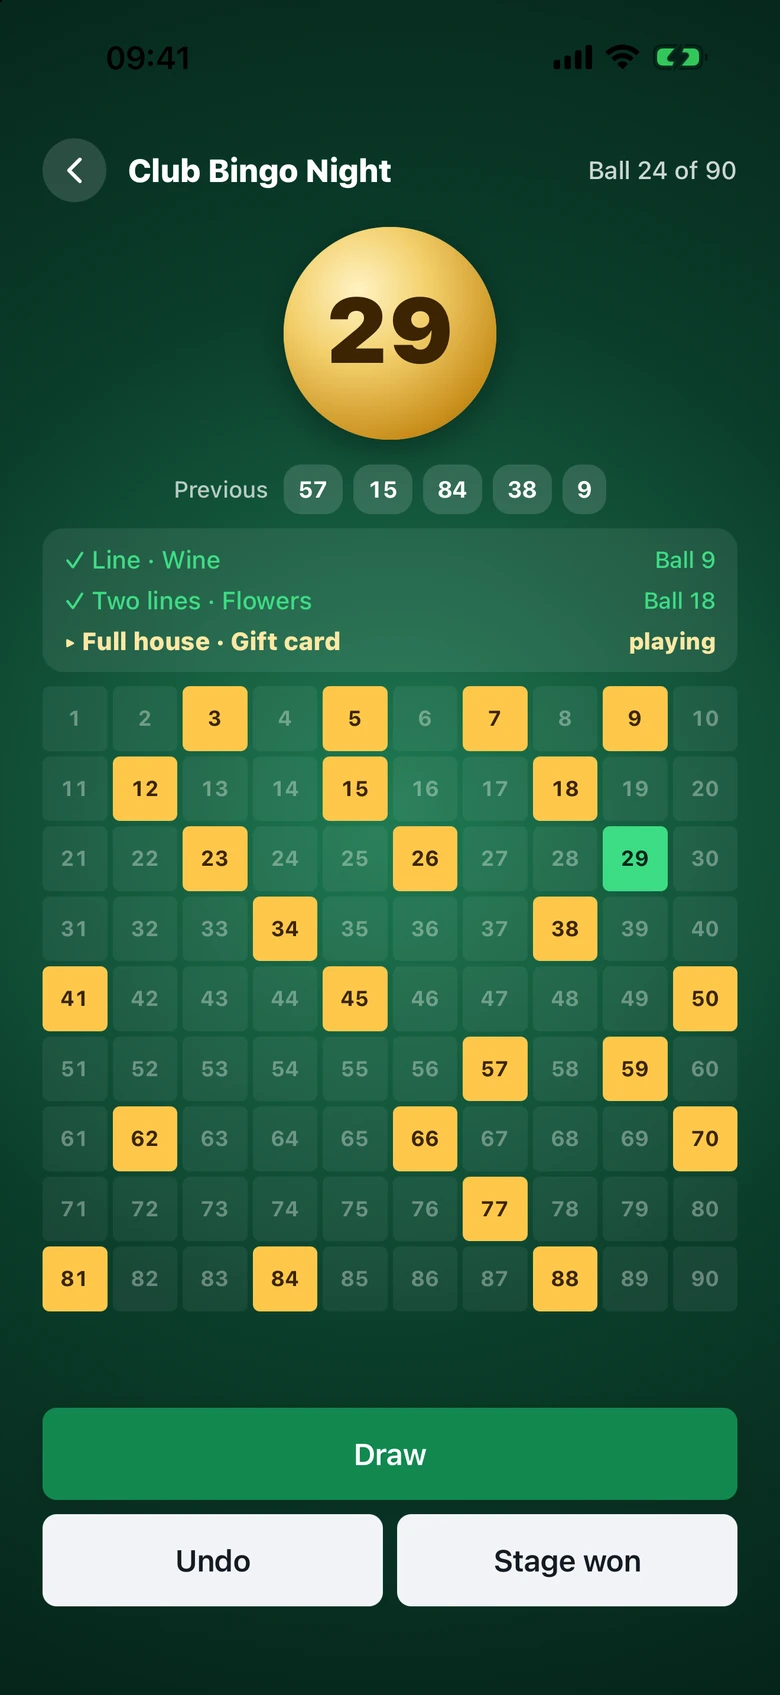
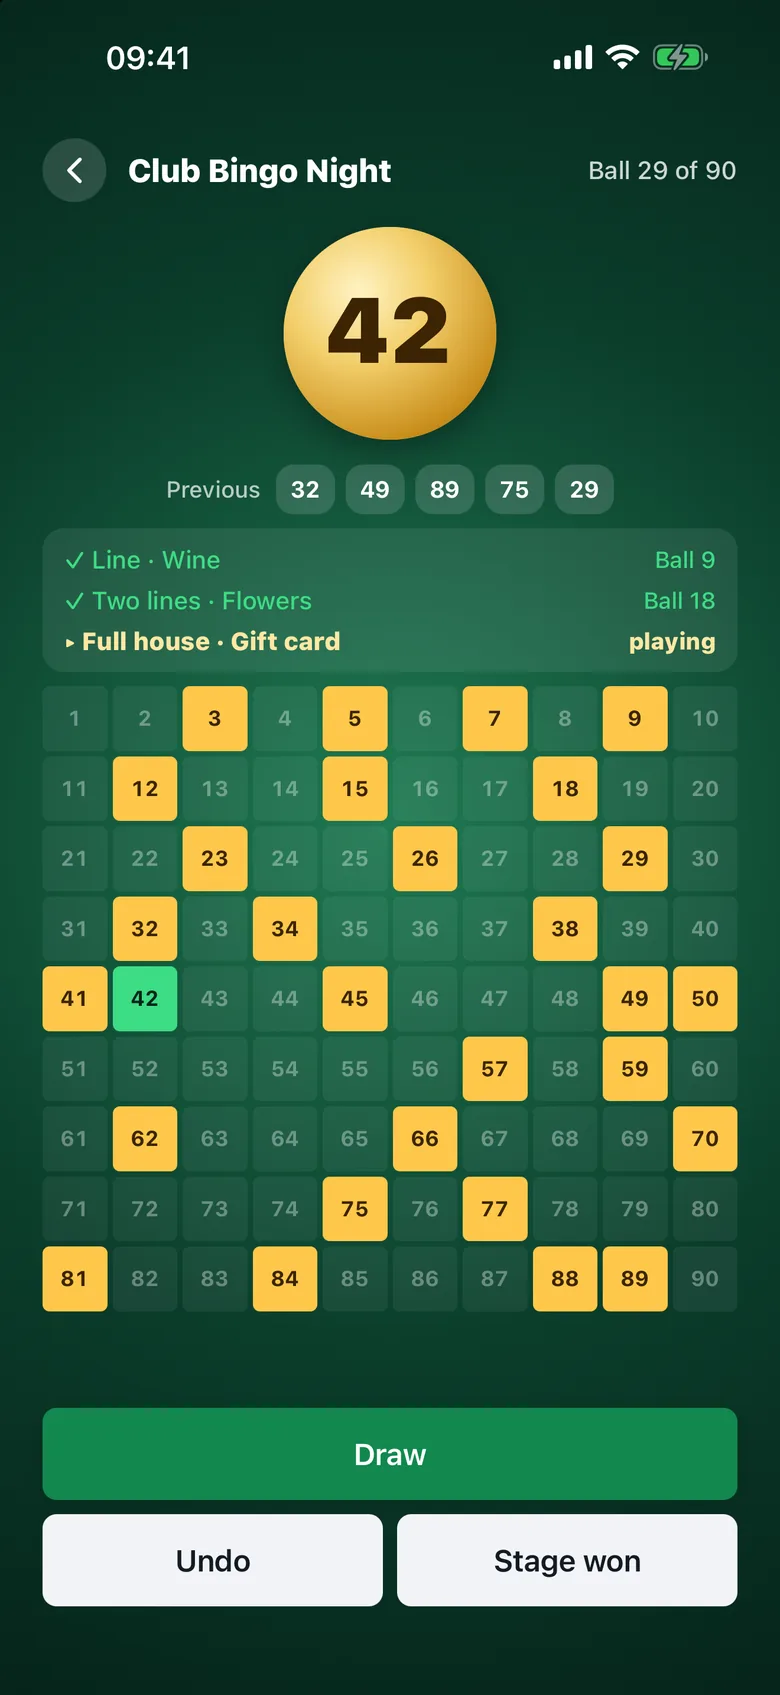
Screenshots from RafflePilot 2.0.3 (winner, new raffle, bingo); senior centers
Light status bar on the dark screens, sentence-case buttons, Colored, and ball counts
30, 75, 80, 90. Alt texts match the new shots.

diff --git a/index.html b/index.html
@@ -45,7 +45,7 @@
         <div class="hero-visual">
           <div class="hero-orbit" aria-hidden="true"></div>
           <img class="phone hero-setup" src="/assets/screenshots/setup.webp" width="780" height="1695" alt="RafflePilot setup with ticket books, color series, bingo, custom lists, and prize draws">
-          <img class="phone hero-winner" src="/assets/screenshots/winner.webp" width="780" height="1695" fetchpriority="high" alt="RafflePilot revealing winning ticket A25 on a gold ticket">
+          <img class="phone hero-winner" src="/assets/screenshots/winner.webp" width="780" height="1695" fetchpriority="high" alt="RafflePilot revealing winning ticket E29 on a gold ticket">
         </div>
       </section>
       <div class="trust-strip wrap" aria-label="App privacy and offline features"><span><i aria-hidden="true">✓</i> Works offline</span><span><i aria-hidden="true">✓</i> No accounts</span><span><i aria-hidden="true">✓</i> No ads</span><span><i aria-hidden="true">✓</i> No tracking</span></div>
@@ -56,7 +56,7 @@
         <ul class="audience-grid" role="list">
           <li><h3>Sports clubs &amp; teams</h3><p>Club fundraisers and match-day raffles.</p></li>
           <li><h3>Clubs &amp; associations</h3><p>Member events and prize draws.</p></li>
-          <li><h3>Care homes &amp; senior centres</h3><p>Social bingo and activity days.</p></li>
+          <li><h3>Care homes &amp; senior centers</h3><p>Social bingo and activity days.</p></li>
           <li><h3>Pubs &amp; event venues</h3><p>Bingo nights and prize draws.</p></li>
           <li><h3>Churches &amp; faith communities</h3><p>Community gatherings and fundraising events.</p></li>
           <li><h3>Charities &amp; nonprofits</h3><p>Fundraising raffles and supporter events.</p></li>
@@ -83,7 +83,7 @@
       </section>
       <section class="feature-row feature-reverse wrap" aria-labelledby="bingo-title">
         <div class="feature-copy"><p class="section-number">02 <span>Bingo nights, sorted</span></p><h2 id="bingo-title">Bring everyone<br>into the game.</h2><p>Call bingo with a clear ball display and a board everyone can follow.</p><ul class="check-list"><li>See called balls and recent numbers</li><li>Record stage winners and their winning ball</li><li>Share the results when the game is over</li></ul><div class="bingo-formats" aria-label="Supported bingo formats"><span>30</span><span>75</span><span>80</span><span>90</span><small>balls. Your choice.</small></div></div>
-        <div class="screen-stage bingo-stage"><img class="phone" src="/assets/screenshots/bingo.webp" width="780" height="1695" loading="lazy" alt="Club Bingo Night showing ball 29, called numbers, and line, two-line, and full-house stages"></div>
+        <div class="screen-stage bingo-stage"><img class="phone" src="/assets/screenshots/bingo.webp" width="780" height="1695" loading="lazy" alt="Club Bingo Night showing ball 42, called numbers, and line, two-line, and full-house stages"></div>
       </section>
       <section class="feature-row wrap history-row" aria-labelledby="history-title">
         <div class="feature-copy"><p class="section-number">03 <span>Raffles and results</span></p><h2 id="history-title">Keep the winners.<br>Lose the paperwork.</h2><p>Keep each raffle and its results together on your device.</p><ul class="check-list"><li>Switch between your saved raffles</li><li>See every winner in your draw history</li><li>Share results with your group</li><li>Keep each ticket from winning twice</li></ul></div>
